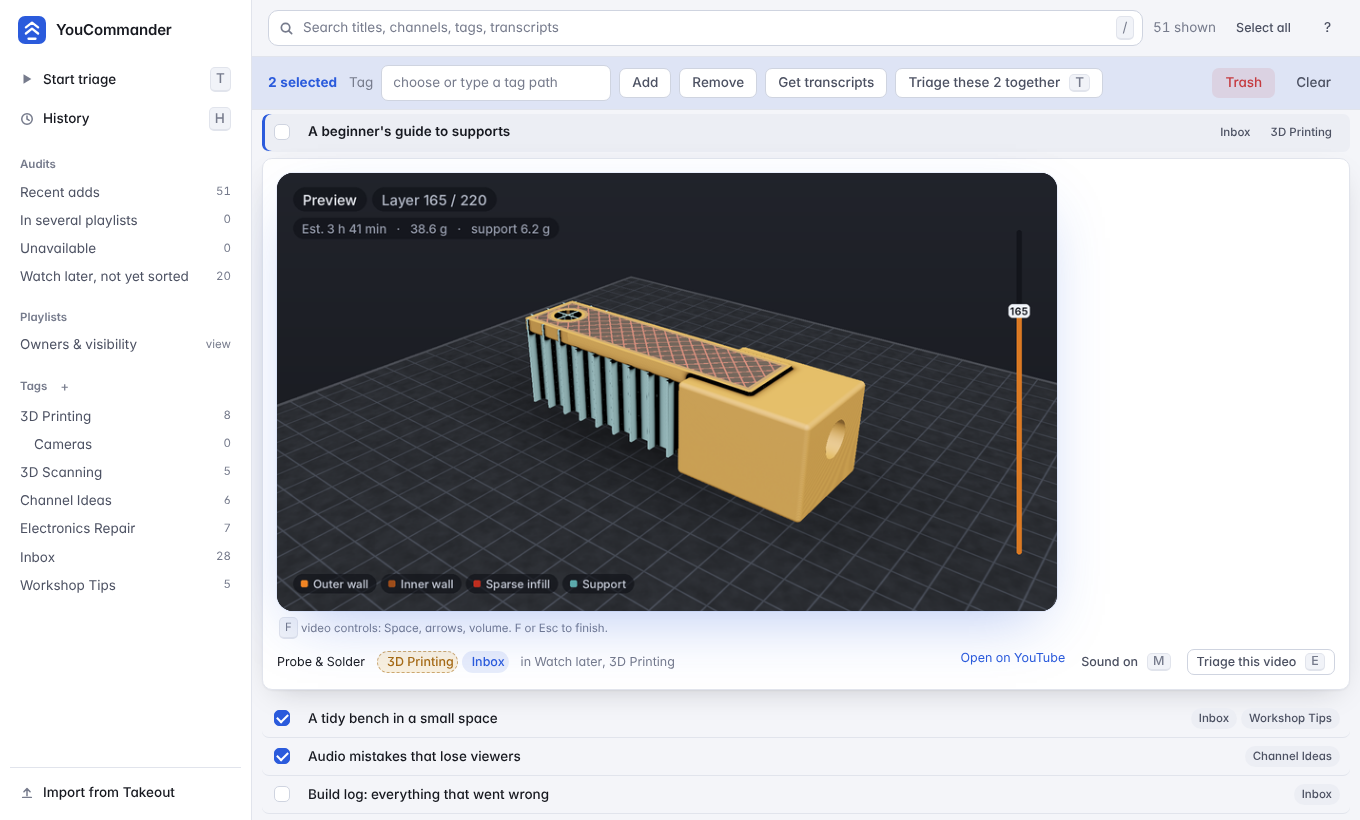
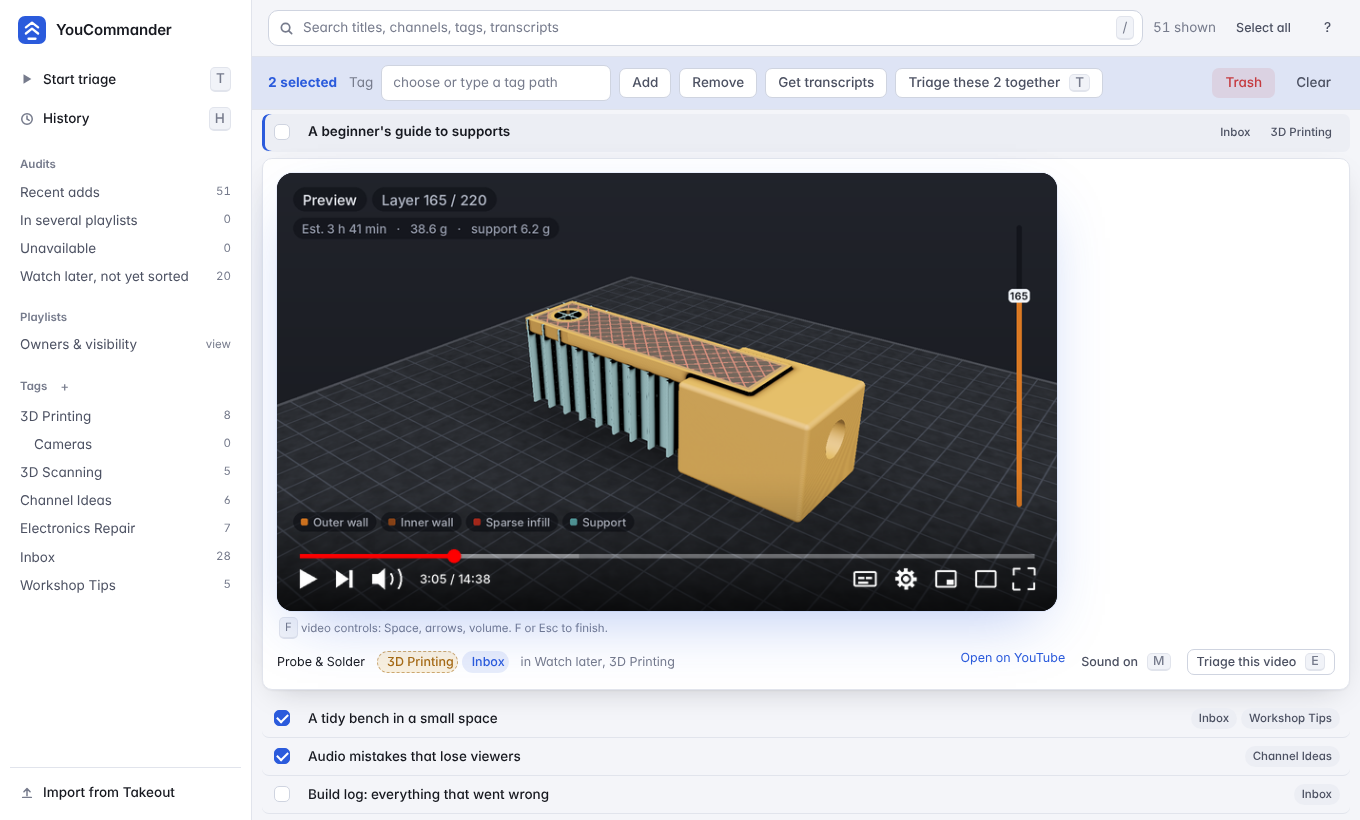
Commander: fix Shift+arrow range selection on views with more than 200 videos; README illustrations get player chrome
The 'Load next 200' row had become an .item, so range selection hit a row without a checkbox and threw.

Claude-Session: https://claude.ai/code/session_01JXeX9WeBKrK6QywEKDeEzH

Changed region(s): [[0.1853, 0.6098, 0.8029, 0.7622], [0.7412, 0.3354, 0.7721, 0.3963]]

diff --git a/ui.html b/ui.html
@@ -52,7 +52,7 @@ header{flex:none;display:flex;align-items:center;gap:10px;padding:10px 16px;bord
 .acc .meta .tags{display:flex;flex-wrap:wrap;gap:4px}
 .acc .meta .acts{margin-left:auto;display:flex;gap:6px}
 .sel{cursor:pointer}
-#more{margin:12px auto;display:flex}
+.loadmore{display:flex;justify-content:center;padding:12px}
 /* tag editor sheet */
 #ed{flex:none;display:none;max-height:40vh;overflow:auto;padding:12px 16px;border-top:1px solid var(--bd);background:var(--sf)}
 #ed .edrow{display:flex;flex-wrap:wrap;align-items:center;gap:8px 14px}
@@ -132,7 +132,7 @@ function edit(id){const t=TAGS.find(x=>x.id==id);ed.style.display='block';
  save.onclick=async()=>{await J('/api/tags/'+id,{method:'PATCH',headers:{'content-type':'application/json'},body:JSON.stringify({set_parent:true,parent_id:par.value?+par.value:null,kind:kind.value,publish:pub.checked?1:0})});init()}}
 var CUR=-1,ANCH=-1;let OFF=0;async function load(more){if(!more){OFF=0;CUR=-1;ANCH=-1;RUN=null}const p=new URLSearchParams();p.set('offset',OFF);if(cur.tag)p.set('tag',cur.tag);if(cur.audit)p.set('audit',cur.audit);if(s.value)p.set('search',s.value);
  const r=await J('/api/videos?'+p);OFF+=r.length;info.textContent=OFF+' shown';
- const h=r.map(v=>`<div class=item data-v="${v.video_id}"><div class=row><input type=checkbox class=sel data-v="${v.video_id}"${SEL.has(v.video_id)?' checked':''}><span class=t><a target=_blank href="https://youtu.be/${v.video_id}">${v.title?esc(v.title):'<i>(unavailable or private) '+v.video_id+'</i>'}</a></span><span class=tg>${v.tags?v.tags.split(', ').map(x=>'<span class=pill>'+esc(x)+'</span>').join(''):esc(v.added||v.title_source||'')}</span></div><div class=acc></div></div>`).join('')+(r.length==200?'<div class=item><button id=more class=ghost>Load next 200</button></div>':'');
+ const h=r.map(v=>`<div class=item data-v="${v.video_id}"><div class=row><input type=checkbox class=sel data-v="${v.video_id}"${SEL.has(v.video_id)?' checked':''}><span class=t><a target=_blank href="https://youtu.be/${v.video_id}">${v.title?esc(v.title):'<i>(unavailable or private) '+v.video_id+'</i>'}</a></span><span class=tg>${v.tags?v.tags.split(', ').map(x=>'<span class=pill>'+esc(x)+'</span>').join(''):esc(v.added||v.title_source||'')}</span></div><div class=acc></div></div>`).join('')+(r.length==200?'<div class=loadmore><button id=more class=ghost>Load next 200</button></div>':'');
  if(more){list.querySelector('#more')?.parentElement.remove();list.insertAdjacentHTML('beforeend',h)}else list.innerHTML=h||'<div class=empty><b>Nothing here</b>'+(s.value?'No video, channel, tag or transcript matches that.':'No videos in this view yet.')+'</div>';
  const m=document.getElementById('more');if(m)m.onclick=()=>load(true)}
 list.addEventListener('click',async e=>{const a=e.target.closest('.row a');if(!a||e.ctrlKey||e.metaKey||e.shiftKey||e.button)return;e.preventDefault();
